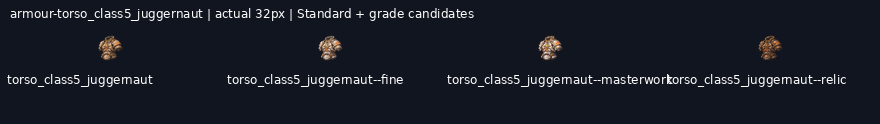
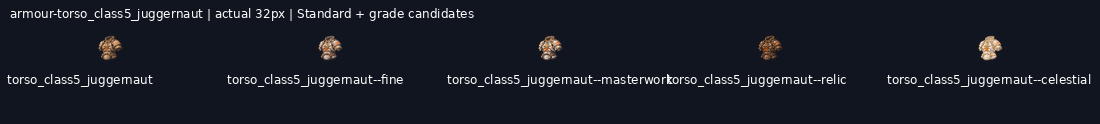
art: draw armour-torso_class5_juggernaut--celestial grade candidate

diff --git a/art/_archive/gear/2026-11-19-kept-blade-grades/HANDOFF.md b/art/_archive/gear/2026-11-19-kept-blade-grades/HANDOFF.md
@@ -1,17 +1,17 @@
 # Gear grade candidates
 
-**80/120 grade candidates delivered** on `art/2026-11-19-kept-blade-grades`. Shared mailbox: https://github.com/leonpentastorm/Project-Heaven-Cry/issues/3 . See claim.json for this lane’s current Standards. Released overlapping blades reuse12 peer candidates, with3 local alternatives archived.
+**81/120 grade candidates delivered** on `art/2026-11-19-kept-blade-grades`. Shared mailbox: https://github.com/leonpentastorm/Project-Heaven-Cry/issues/3 . See claim.json for this lane’s current Standards. Released overlapping blades reuse12 peer candidates, with3 local alternatives archived.
 
 Leon requested continuous candidate production; proof approval is not fabricated. All candidates remain review-candidate, production_approved:false, implementation_ready:false, with outline.review_required:true. Exact outline is measured, never asserted unless the masks match. Per-image registration is uniform scaling/translation only, without warp, silhouette masks, filled pixels or code-drawn substitutes. The generated native remains untouched.
 
 Each image is generated, shown, technically exported, validated, committed and pushed before the next. Sources, versioned masters, exact prompts/reference hashes,256/128/64/32 exports and grade comparison sheets are retained. Standards and earlier deliveries are unchanged. This sparse checkout cannot validate omitted historical files; full-library validation/build is an integration check on a full checkout.
 
-Remaining: weapon-ork_machete--masterwork, weapon-ork_machete--relic, weapon-ork_machete--celestial, weapon-war_axe--fine, weapon-war_axe--masterwork, weapon-war_axe--relic, weapon-war_axe--celestial, armour-torso_class5_juggernaut--celestial, armour-padded_undershirt--fine, armour-padded_undershirt--masterwork, armour-padded_undershirt--relic, armour-padded_undershirt--celestial, armour-trauma_plate--fine, armour-trauma_plate--masterwork, armour-trauma_plate--relic, armour-trauma_plate--celestial, armour-runner_trousers--fine, armour-runner_trousers--masterwork, armour-runner_trousers--relic, armour-runner_trousers--celestial, armour-armoured_greaves--fine, armour-armoured_greaves--masterwork, armour-armoured_greaves--relic, armour-armoured_greaves--celestial, armour-work_gloves--fine, armour-work_gloves--masterwork, armour-work_gloves--relic, armour-work_gloves--celestial, armour-combat_gloves--fine, armour-combat_gloves--masterwork, armour-combat_gloves--relic, armour-combat_gloves--celestial, armour-field_boots--fine, armour-field_boots--masterwork, armour-field_boots--relic, armour-field_boots--celestial, armour-heavy_boots--fine, armour-heavy_boots--masterwork, armour-heavy_boots--relic, armour-heavy_boots--celestial.
+Remaining: weapon-ork_machete--masterwork, weapon-ork_machete--relic, weapon-ork_machete--celestial, weapon-war_axe--fine, weapon-war_axe--masterwork, weapon-war_axe--relic, weapon-war_axe--celestial, armour-padded_undershirt--fine, armour-padded_undershirt--masterwork, armour-padded_undershirt--relic, armour-padded_undershirt--celestial, armour-trauma_plate--fine, armour-trauma_plate--masterwork, armour-trauma_plate--relic, armour-trauma_plate--celestial, armour-runner_trousers--fine, armour-runner_trousers--masterwork, armour-runner_trousers--relic, armour-runner_trousers--celestial, armour-armoured_greaves--fine, armour-armoured_greaves--masterwork, armour-armoured_greaves--relic, armour-armoured_greaves--celestial, armour-work_gloves--fine, armour-work_gloves--masterwork, armour-work_gloves--relic, armour-work_gloves--celestial, armour-combat_gloves--fine, armour-combat_gloves--masterwork, armour-combat_gloves--relic, armour-combat_gloves--celestial, armour-field_boots--fine, armour-field_boots--masterwork, armour-field_boots--relic, armour-field_boots--celestial, armour-heavy_boots--fine, armour-heavy_boots--masterwork, armour-heavy_boots--relic, armour-heavy_boots--celestial.
 
 Service-rejected requests (do not repeatedly resubmit): weapon-ork_machete--masterwork, weapon-war_axe--fine.
 
 Waiting on rejected prerequisites: weapon-ork_machete--celestial, weapon-ork_machete--relic, weapon-war_axe--celestial, weapon-war_axe--masterwork, weapon-war_axe--relic.
 
-Ready independent next steps, in queue order: armour-torso_class5_juggernaut--celestial, armour-padded_undershirt--fine, armour-trauma_plate--fine, armour-runner_trousers--fine, armour-armoured_greaves--fine, armour-work_gloves--fine, armour-combat_gloves--fine, armour-field_boots--fine, armour-heavy_boots--fine. Other pending grades follow their preceding grade.
+Ready independent next steps, in queue order: armour-padded_undershirt--fine, armour-trauma_plate--fine, armour-runner_trousers--fine, armour-armoured_greaves--fine, armour-work_gloves--fine, armour-combat_gloves--fine, armour-field_boots--fine, armour-heavy_boots--fine. Other pending grades follow their preceding grade.
 
 Runtime handoff: implementation_ready:false records review status but does not gate the web asset builder. The builder emits grade asset keys; the current UI gear resolver still needs grade-aware selection. Do not claim that runtime grade selection is implemented by these art deliveries.
